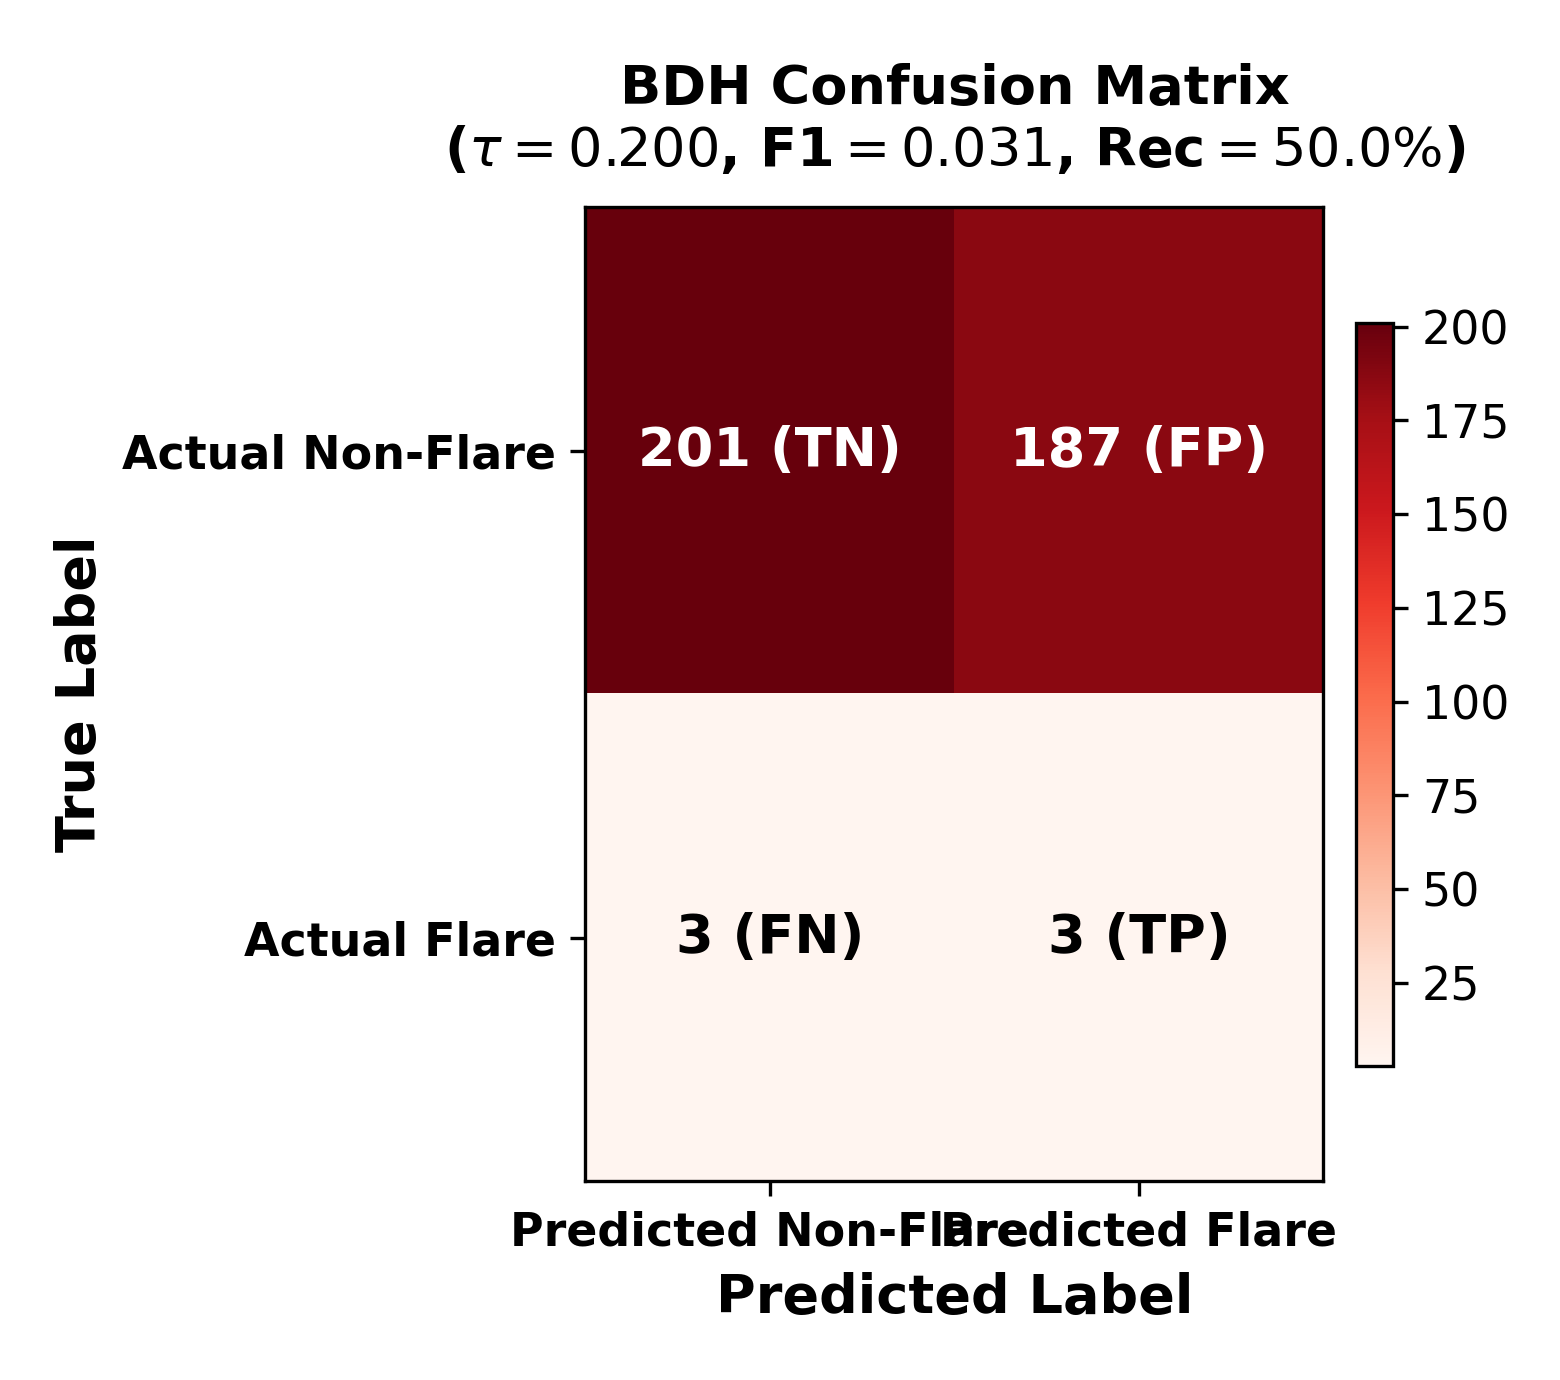
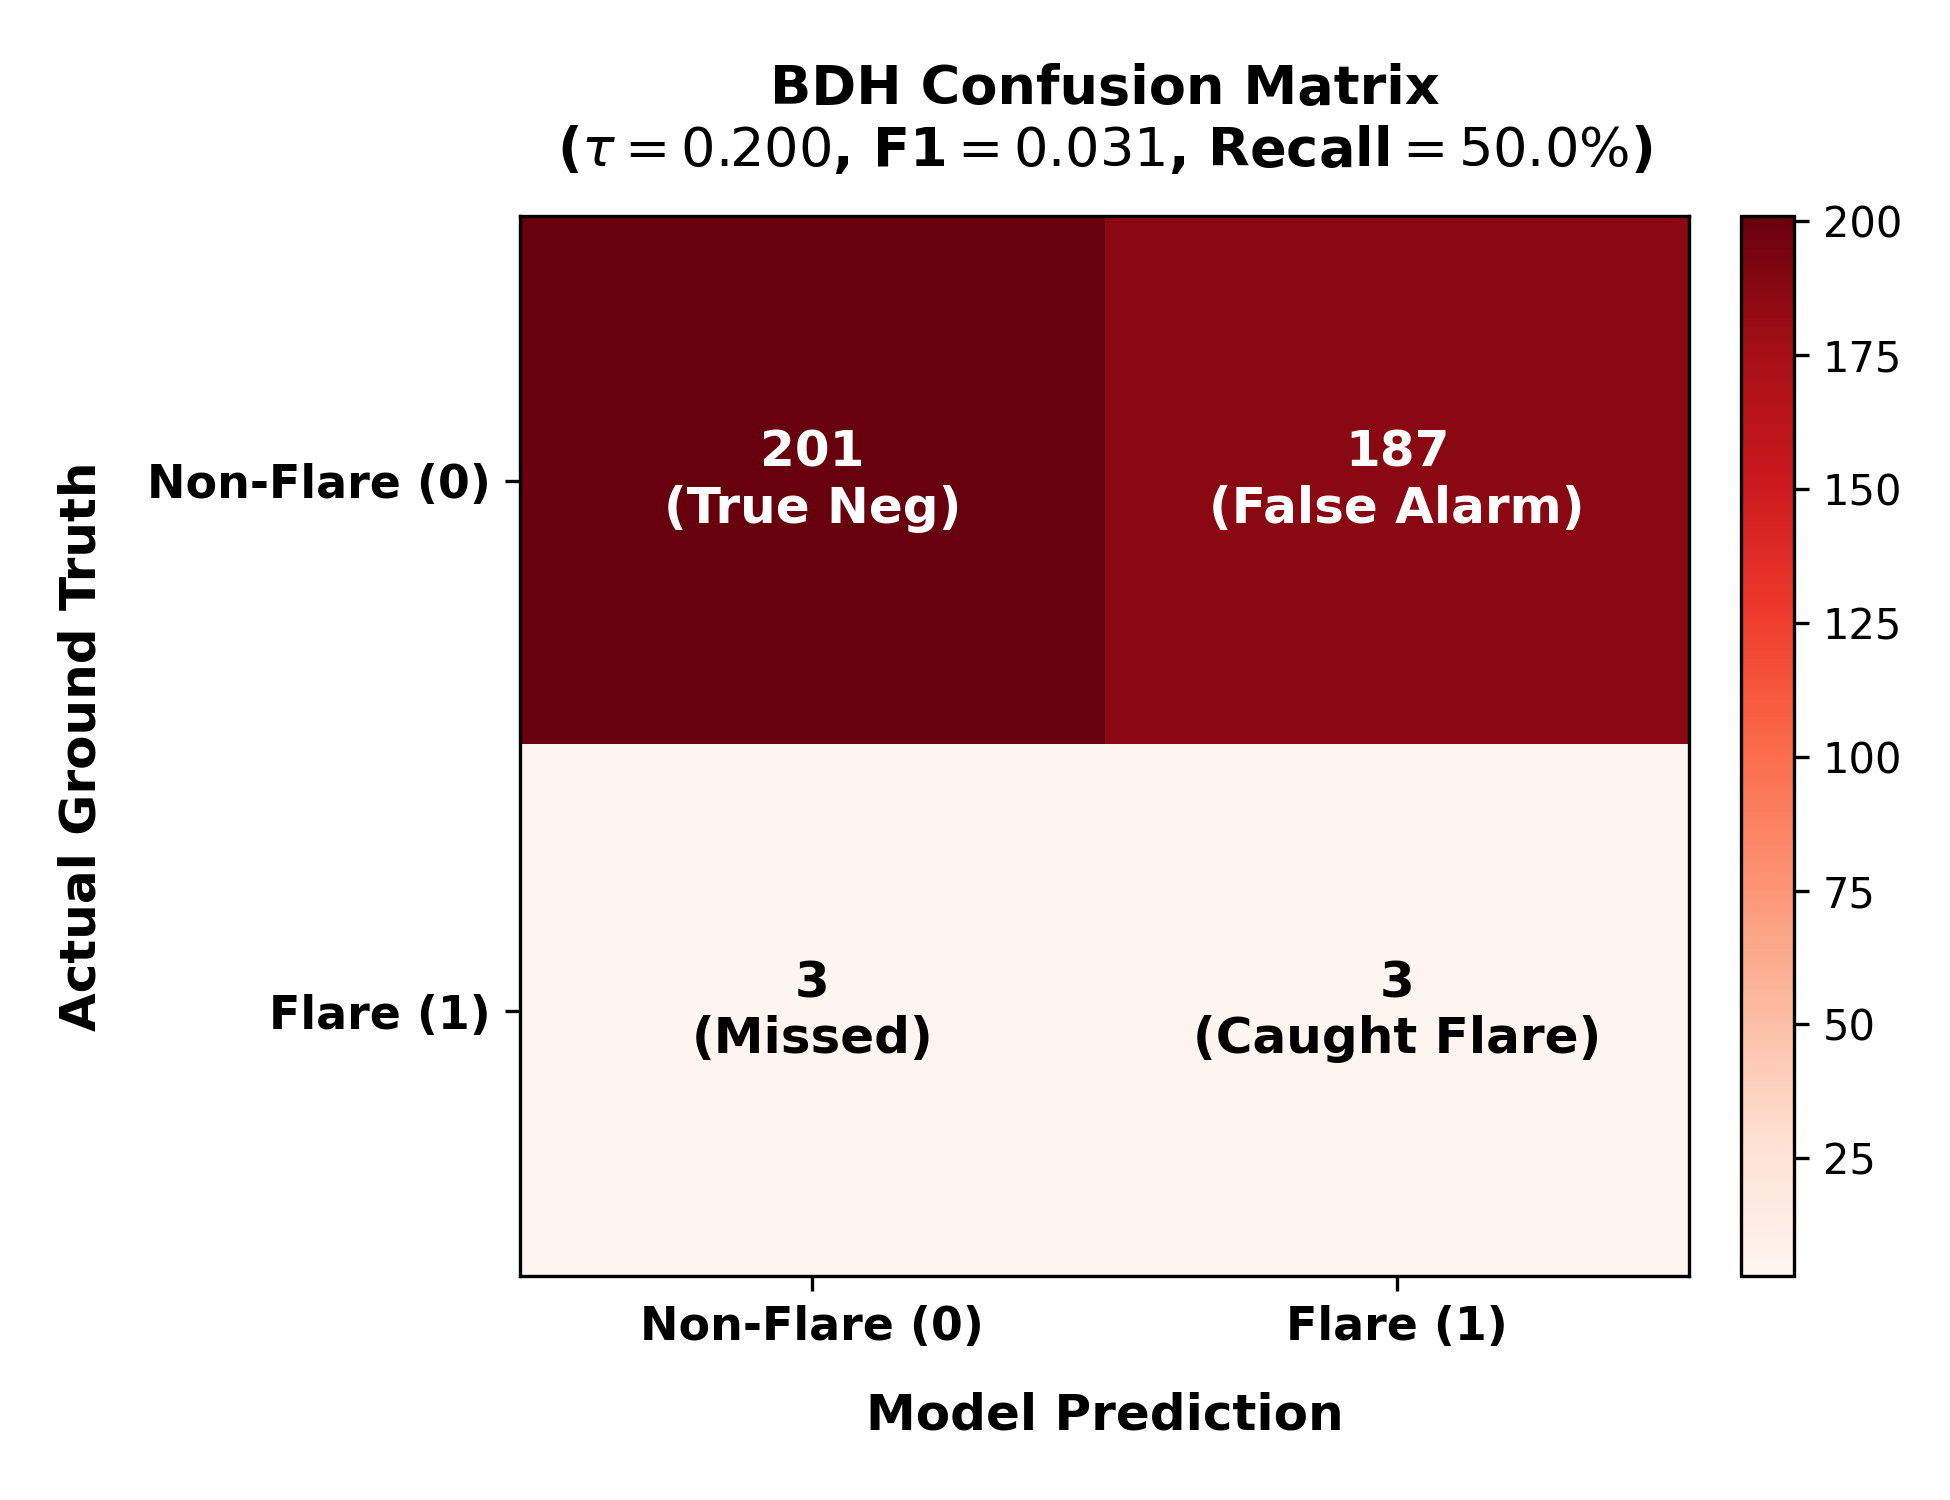
style(plots): broaden confusion matrices to 6.5x5.0 aspect ratio, eliminate label overlap, add training curves

Changed region(s): [[0.0308, 0.0312, 0.9846, 0.9659]]

diff --git a/scripts/generate_four_clean_figures.py b/scripts/generate_four_clean_figures.py
@@ -117,25 +117,25 @@ def main():
     # Helper for Individual Confusion Matrix
     # ─────────────────────────────────────────────────────────────
     def save_single_cm(cm, model_name, threshold, f1, prec, rec, cmap, filename):
-        fig, ax = plt.subplots(figsize=(5.2, 4.6))
+        fig, ax = plt.subplots(figsize=(6.5, 5.0))
         im = ax.imshow(cm, cmap=cmap, interpolation="nearest", aspect="auto")
-        ax.set_title(f"{model_name} Confusion Matrix\n($\\tau={threshold:.3f}$, F1$={f1:.3f}$, Rec$={rec*100:.1f}\\%$)", fontweight="bold", pad=10)
+        ax.set_title(f"{model_name} Confusion Matrix\n($\\tau={threshold:.3f}$, F1$={f1:.3f}$, Recall$={rec*100:.1f}\\%$)", fontweight="bold", pad=12, fontsize=13)
         ax.set_xticks([0, 1])
         ax.set_yticks([0, 1])
-        ax.set_xticklabels(["Predicted Non-Flare", "Predicted Flare"], fontweight="bold")
-        ax.set_yticklabels(["Actual Non-Flare", "Actual Flare"], fontweight="bold")
-        ax.set_ylabel("True Label", fontweight="bold")
-        ax.set_xlabel("Predicted Label", fontweight="bold")
+        ax.set_xticklabels(["Non-Flare (0)", "Flare (1)"], fontweight="bold", fontsize=11)
+        ax.set_yticklabels(["Non-Flare (0)", "Flare (1)"], fontweight="bold", fontsize=11)
+        ax.set_ylabel("Actual Ground Truth", fontweight="bold", labelpad=10, fontsize=12)
+        ax.set_xlabel("Model Prediction", fontweight="bold", labelpad=10, fontsize=12)
 
         for i in range(2):
             for j in range(2):
                 val = cm[i, j]
-                label_text = f"{val:,}"
-                sub_label = " (TN)" if (i==0 and j==0) else " (FP)" if (i==0 and j==1) else " (FN)" if (i==1 and j==0) else " (TP)"
+                sub_label = "(True Neg)" if (i==0 and j==0) else "(False Alarm)" if (i==0 and j==1) else "(Missed)" if (i==1 and j==0) else "(Caught Flare)"
                 text_col = "white" if val > cm.max() / 2 else "black"
-                ax.text(j, i, label_text + sub_label, ha="center", va="center", color=text_col, fontsize=13, fontweight="bold")
+                ax.text(j, i, f"{val:,}\n{sub_label}", ha="center", va="center", color=text_col, fontsize=12, fontweight="bold")
 
-        plt.colorbar(im, fraction=0.046, pad=0.04)
+        cbar = plt.colorbar(im, fraction=0.046, pad=0.04)
+        cbar.ax.tick_params(labelsize=10)
         plt.tight_layout()
         out_p = ROOT / filename
         plt.savefig(out_p, dpi=300)
@@ -162,3 +162,4 @@ def main():
 
 if __name__ == "__main__":
     main()
+

diff --git a/main.tex b/main.tex
@@ -360,14 +360,14 @@ Fig.~\ref{fig:cm_bdh} and Fig.~\ref{fig:cm_lstm} display the confusion matrices 
 
 \begin{figure}[!t]
 \centering
-\includegraphics[width=0.88\linewidth]{confusion_matrix_bdh.png}
+\includegraphics[width=0.98\linewidth]{confusion_matrix_bdh.png}
 \caption{Confusion matrix for BDH evaluated at its optimal decision threshold ($\tau = 0.200$), illustrating 50.0\% recall on the 6 held-out test flares.}
 \label{fig:cm_bdh}
 \end{figure}
 
 \begin{figure}[!t]
 \centering
-\includegraphics[width=0.88\linewidth]{confusion_matrix_lstm.png}
+\includegraphics[width=0.98\linewidth]{confusion_matrix_lstm.png}
 \caption{Confusion matrix for LSTM evaluated at its optimal decision threshold ($\tau = 0.677$), highlighting low false alarm generation (47 false positives).}
 \label{fig:cm_lstm}
 \end{figure}
